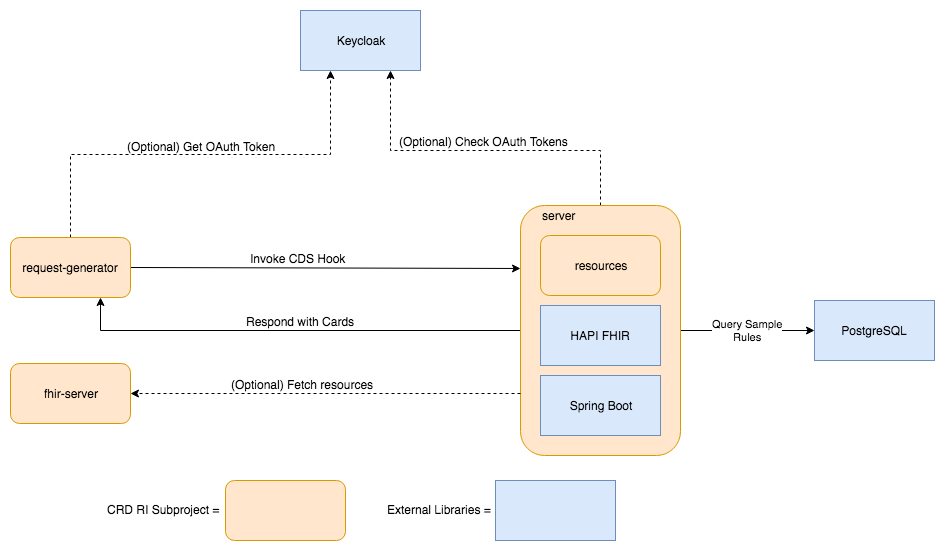
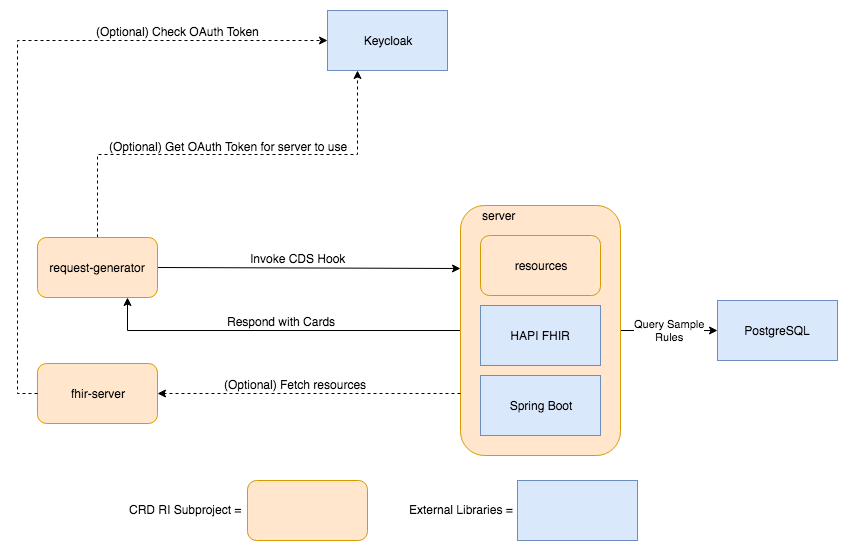
Updating the project diagram
Also made a note in the README about the Keycloak instructions being
out of sync with the current project state.

diff --git a/README.md b/README.md
@@ -1,9 +1,9 @@
 # Coverage Requirements Discovery (CRD) Reference Implementation (RI)
 
 The Coverage Requirements Discovery (CRD) Reference Implementation (RI) is a software project that conforms to the [Implementation Guide](http://build.fhir.org/ig/HL7/davinci-crd/) developed by the [Da Vinci Project](http://www.hl7.org/about/davinci/index.cfm?ref=common) within the [HL7 Standards Organization](http://www.hl7.org/).
- 
+
 The CRD RI project is software that can simulate all of the systems involved in a CRD exchange. The main component in this project is the server, which acts as a healthcare payer information system. This system handles healthcare providers requests to understand what documentation is necessary prior to prescribing a particular treatment. Users are able to formulate a request for durable medical equipment coverage requirements, such as “what are the documentation requirements for prescribing home oxygen therapy (HCPCS E0424) to a 65 year old male living in MA?”. This type of question is not asked in plain English through a user interface, but submitted through [CDS Hooks](https://cds-hooks.org/). The CRD RI consults a small, example database and provides a response, such as a PDF with the requirements back to the requesting system.
- 
+
 This software lets EHR vendors and payer organizations examine how the proposed standard will work and test their own implementations of the standard.
 
 ## Project Structure
@@ -29,7 +29,7 @@ The subprojects in this repository are capable of simulating the entire set of i
 
 It is not necessary to run all of the components in this system to work with the RI. Depending on your organization's role, you are likely to use a particular subset of the components.
 
-The RI supports the use of [OAuth 2.0](https://oauth.net/2/) as described in the [FHIR Resource Access](https://cds-hooks.org/specification/1.0/#fhir-resource-access) and [SMART App Authorization Guide](http://docs.smarthealthit.org/authorization/). The management of OAuth tokens is handled by [Keycloak](https://www.keycloak.org/), an open source identity management system. The RI can be set up to operate securely and use OAuth tokens to authorize access, or it may be configured in an open fashion for testing.
+The RI supports the use of [OAuth 2.0](https://oauth.net/2/) as described in the [FHIR Resource Access](https://cds-hooks.org/specification/1.0/#fhir-resource-access) and [SMART App Authorization Guide](http://docs.smarthealthit.org/authorization/). The management of OAuth tokens is handled by [Keycloak](https://www.keycloak.org/), an open source identity management system. In this system, the `request-generator` will obtain a token from Keycloak that can be used to access the `fhir-server`. The `fhir-server` will contact Keycloak to check the validity of the token. The RI can be set up to operate securely and use OAuth tokens to authorize access, or it may be configured in an open fashion for testing.
 
 ### Healthcare Provider Components
 On the left side of the diagram, we have two components that simulate functionality that is provided by an EHR system. The first is `request-generator`. This is a web application that can generate a simple CRD request via CDS Hook. The web application allows a user to enter basic demographic information as well as a code for the requested service/device. Once the request has been submitted, the application will display any cards that have been returned by the CDS Service.
@@ -54,9 +54,11 @@ On the left side of the diagram, we have two components that simulate functional
 1. Build the code
   * `gradle build`
 
-Visit the [server README](server/README.md) to see how to run the server or the [request-generator README](request-generator/README.md) for information on running these subprojects. 
+Visit the [server README](server/README.md) to see how to run the server or the [request-generator README](request-generator/README.md) for information on running these subprojects.
 
 ## Setting up a KeyCloak instance
+*Note: We are currently reworking how the `server` project interacts with Keycloak. As such, these instructions are out of date. They will be updated when that work is finished.*
+
 If you want to test CRD in a secure fashion using OAuth, you will need to install and configure Keycloak. The following instructions are for configuring Keycloak for all subprojects in the RI:
 
 1. Download and unzip KeyCloak Server from [here](https://www.keycloak.org/downloads.html)
